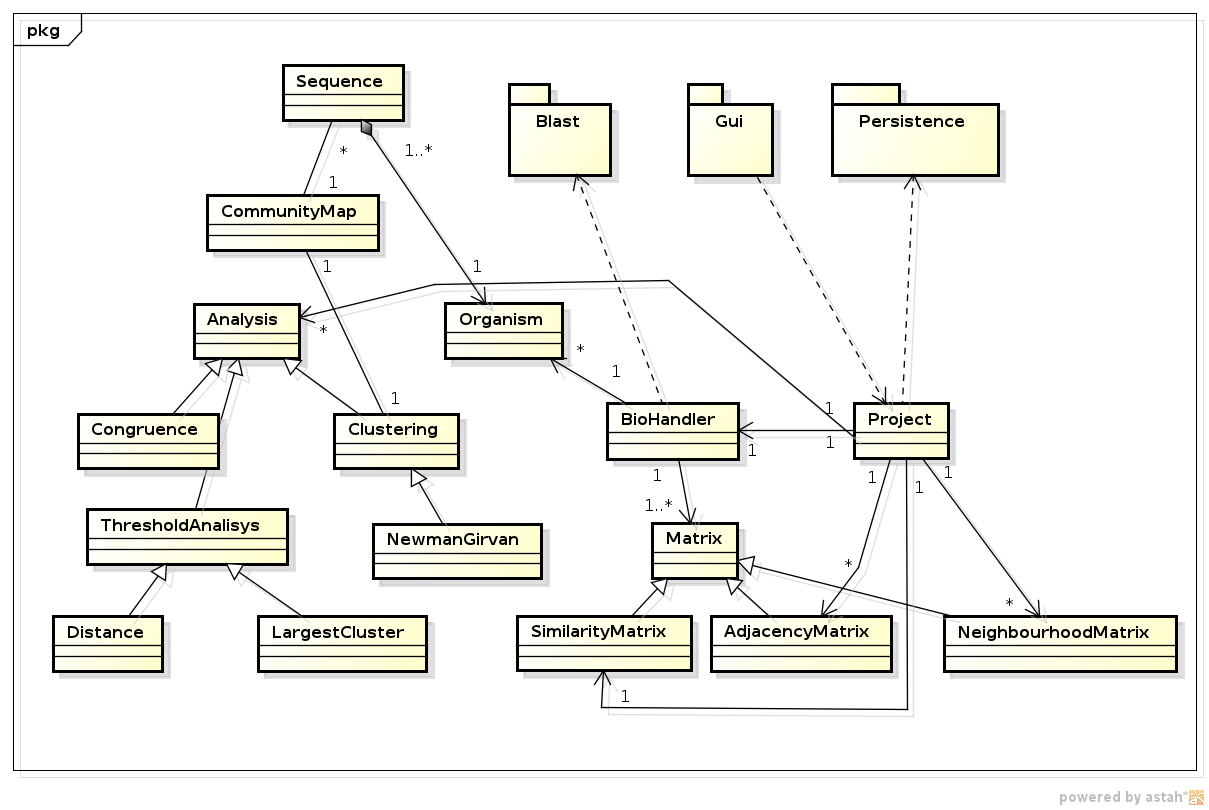
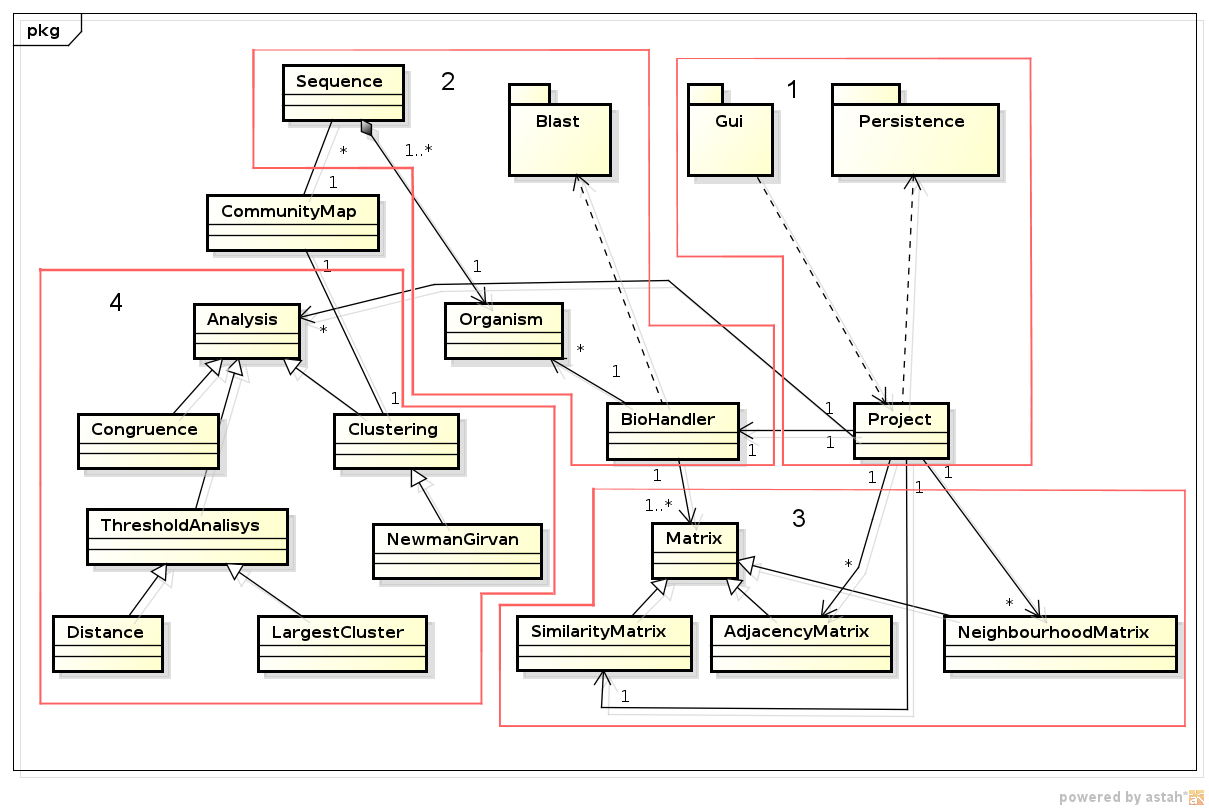
revision almost done

diff --git a/monografia/desenvolvimento.tex b/monografia/desenvolvimento.tex
@@ -100,10 +100,15 @@ Alguns programas utilizados geram as matrizes em memória e as excluem após det
 de diretórios. A possibilidade de dar ao usuário o poder de gerenciar essas matrizes e realizar operações diversas, como compará-las ou visualizar gráficos
 a partir delas ao longo de um procedimento de análise é algo importante que deve estar incluído em um ambiente integrado de análise filogenética.
 
+\newglossaryentry{matriz-cores}{name=Matriz de Cores,
+description={\hspace{2 mm}é a matriz de vizinhança representada de forma que cada número recebe uma cor diferente, variando do azul ao vermelho à medida
+em que esse número aumenta. A matriz de vizinhança pode ser rearranjada de forma a agrupar números iguais com a maior proximoidade possível da diagonal
+principal, resultando em um gráfico de matriz de cores que permite uma melhor interpretação a partir da visualização}}
+
 \begin{figure}
 \centering
 \includegraphics[scale=0.53]{matriz-vizinhanca}
-\caption{Exemplo de Matriz de Vizinhança no formato de Matriz de Cores.}
+\caption{Exemplo de Matriz de Vizinhança no formato de \gls{matriz-cores}.}
 \label{fig:matriz-vizinhanca}
 \end{figure}
 
@@ -172,21 +177,43 @@ o processo, seria mais interessante que o seu gerenciamento fosse realizado por 
 mantivesse disponíveis as informações por meio de uma camada de persistência, deixando a questão da organização dos dados transparente para o
 pesquisador.
 
-\section{A Proposta} \label{sec:proposta}
+\chapter{Modelagem do AIAF - Ambiente Integrado de apoio à Análise Filogenética através de Redes Complexas}
+\label{cap:navi}
 
 Da forma como está estruturado atualmente, o processo de análise filogenética através de redes complexas pode ser resumido como uma série de execuções
 de programas independentes entre si que recebem arquivos
 de entrada em determinados formatos, realizam seu
-processamento e geram outros arquivos de saída. Os requisitos mais importantes, portanto, são a eliminação da necessidade de organização de arquivos
+processamento e geram outros arquivos de saída. O desenvolvimento de um ambiente integrado que busque facilitar o controle de execução do processo
+torna-se importante nesse contexto. Nas seções a seguir são detalhadas a metodologia de desenvolvimento adotada e
+os artefatos de modelagem gerados.
+
+\sigla{AIAF}{Ambiente Integrado de apoio à Análise Filogenética através de Redes Complexas}
+
+\section{Metodologia de Desenvolvimento}
+
+Para satisfazer a todos os requisitos e possuir as características citadas acima, este trabalho seguiu uma metodologia tradicional de projetos
+de Engenharia de Software \cite{softeng2005} e foi adotado o modelo de desenvolvimento em espiral, onde há ciclos de planejamento de requisitos,
+com concepção de requisitos, criação
+de um protótipo, verificação, validação e novo planejamento de requisitos, continuando o ciclo \cite{boehm1986}. Neste trabalho apenas uma
+parte da espiral foi percorrida.
+
+\section{Levantamento de Requisitos}
+
+A partir do que foi descrito no Capítulo \ref{cap:analisefilo}, os requisitos mais importantes são a eliminação da necessidade de organização de arquivos
 intermediários pelos usuários e a conversão de formatos entre as execuções. Para agilizar a execução, é importante também a geração de gráficos em
-determinadas etapas. A tabela \ref{tab:requisitos} mostra de forma consolidada os requisitos levantados e que devem ser satisfeitos no processo de
+determinadas etapas. A tabela \ref{tab:requisitos} mostra de forma consolidada os requisitos funcionais levantados e que devem ser satisfeitos no processo de
 modelagem e construção de um AIAF -
 Ambiente Integrado de apoio à Análise Filogenética
 Através de Redes Complexas.
 
+\newglossaryentry{congruencia}{name=Congruência,
+description={\hspace{2 mm}trata da comparação entre duas redes de sequências proteicas, que é feita após a definição de módulos/comunidades de cada uma das
+redes. Nela analisa-se a porcentagem de sequências proteicas que pertencendo a uma determinada comunidade da primeira rede, também estão presentes na
+comunidade correspondente na segunda rede}}
+
 \begin{table}
 \centering
-\caption{Tabela de requisitos do AIAF} % igual ao ambiente Figura
+\caption{Tabela de requisitos funcionais do AIAF} % igual ao ambiente Figura
 \begin{tabular}{p{5cm}p{10cm}} % com este comando dizemos quantas colunas terá nossa tabela e a posição do texto dentro de cada coluna. Aqui temos três colunas (pois são três "c" dentre {}) e o texto estará centralizado em todas elas (indicado pelo "c", se quisermos alinhados à esquerda "l" ou direita "r"
 \hline 
 %Requisito & Pontos & Classificação \\
@@ -211,7 +238,7 @@ Execução da clusterização & O sistema deve fornecer opções de métodos de 
 o gráfico de seu resultado quando requisitado \\ \hline
 Visualização do gráfico completo da rede & O sistema deve permitir a visualização do gráfico completo da rede, após a escolha das comunidades,
 recuperando as informações salvas durante o processo de salvamento das sequências e organismos \\ \hline
-Congruência & O sistema deve permitir a comparação do resultado do método com o resultado de outros métodos de análise filogenética, além da comparação
+\gls{congruencia} & O sistema deve permitir a comparação do resultado do método com o resultado de outros métodos de análise filogenética, além da comparação
 com o resultado pelo próprio método com outro conjunto de dados \\ \hline
 Exportação de dados & O sistema deve permitir a exportação de dados necessários à geração de gráficos para o uso pelos usuários de ferramentas
 profissionais de plotagem \\ \hline
@@ -219,17 +246,9 @@ profissionais de plotagem \\ \hline
 \label{tab:requisitos}
 \end{table} 
 
-A partir desses requisitos gerais, apresentamos no próximo Capítulo a proposta de modelagem que pretende atendê-los.
-
-
-\chapter{Modelagem do AIAF - Ambiente Integrado de apoio à Análise Filogenética através de Redes Complexas}
-\label{cap:navi}
-
-\sigla{AIAF}{Ambiente Integrado de apoio à Análise Filogenética através de Redes Complexas}
-
-A partir dos requisitos identificados no Capítulo anterior, podemos propor um ambiente integrado para gerenciar o método de Análise Filogenética por
-Redes Complexas descrito anteriormente. Para garantir o controle das etapas do processo e ao mesmo tempo permitir uma fácil utilização e evitar problemas
-com padrões e arquivos de conFiguração, o sistema precisa seguir três importantes pilares:
+A partir dos requisitos identificados na Tabela \ref{tab:requisitos}, podemos propor um ambiente integrado para gerenciar o método de Análise Filogenética por
+Redes Complexas descrito anteriormente. Para garantir o controle das etapas do processo e ao mesmo tempo evitar problemas
+com padrões e arquivos de configuração, o sistema precisa seguir três importantes requisitos não-funcionais:
 
 \begin{itemize}
  \item{\textbf{Usabilidade:} é um fator importante por tornar o método passível de utilização por pessoas com pouco ou quase nenhum conhecimento de
@@ -244,12 +263,6 @@ necessárias para a retomada de execuções.}
 preocupar com detalhes de mais baixo nível de execução, como os locais em que os arquivos estão dispostos e situações relacionadas à conversão de
 formatos e adaptações diversas de dados.}
 \end{itemize}
-
-Para satisfazer a todos os requisitos e possuir as características citadas acima, este trabalho seguiu uma metodologia tradicional de projetos
-de Engenharia de Software \cite{softeng2005} e foi adotado o modelo de desenvolvimento em espiral, onde há ciclos de planejamento de requisitos,
-com concepção de requisitos, criação
-de um protótipo, verificação, validação e novo planejamento de requisitos, continuando o ciclo \cite{boehm1986}. Neste trabalho apenas uma
-parte da espiral foi percorrida.
 
 No levantamento de requisitos, foram determinados os objetivos e alternativas e definido o escopo do sistema baseado nos objetivos do projeto,
 dispostos na Seção \ref{sec:objetivos}. Em seguida foi realizada a modelagem, com os diagramas de casos de uso, classes e sequência.
@@ -322,7 +335,7 @@ de um diagrama de classes, mostrado na próxima Seção.
 \section{Modelagem dos Dados} \label{sec:organizacao}
 
 A organização das informações do sistema é um passo importante para que se tenha qualidade e se atenda aos requisitos propostos. Torna-se de grande
-importância,
+importância
 a criação de um diagrama de classes para definir classes e suas responsabilidades, além de seus aspectos funcionais (métodos)
 e os dados
 (atributos) em que cada uma é responsável.
@@ -338,14 +351,25 @@ foi criado um diagrama de classes, cuja versão simplificada pode ser vista na F
 \label{fig:diagrama-classes-simplificado}
 \end{figure}
 
-A classe principal do AIAF é a classe \textit{Project}. Todas as interações do usuário com a \textit{GUI} (\textit{Graphical User Interface})
+Na Figura \ref{fig:diagrama-classes-simplificado} as classes estão agrupadas para facilitar o entendimento. A numeração adotada foi intencional pelo mesmo
+motivo. As três classes mais importantes estão no grupo 1. Elas são responsáveis por garantir usabilidade, gerenciamento de informação e transparência. No
+grupo 2 estão as classes que tratarão da parte inicial do método, onde há a filtragem dos dados provenientes do GenBank e o salvamento de sequências e
+organismos, além da execução da ferramenta BLAST para a comparação de sequências e geração da matriz de similaridades. Os grupos 3 e 4 demonstram de forma
+clara o poder de extensibilidade do sistema, onde de pode incluir novas matrizes ou novas análises de limiares ou de clusterização, por exemplo, através
+da simples criação de uma classe e utilização de herança. \textit{BLAST} foi definido como pacote por se tratar de uma ferramenta externa.
+\textit{GUI} (\textit{Graphical User Interface}) e \textit{Persistence}
+foram definidos da mesma maneira pois seu detalhamento é irrelevante no contexto da análise da modelagem de classes, mas fazem parte do núcleo do AIAF.
+A seguir teremos um detalhamento melhor sobre as classes.
+
+A classe principal do AIAF é a classe \textit{Project}. Todas as interações do usuário com a \textit{GUI} 
 passam por ela, que controlará operações com
 matrizes, análises, tratamento das informações biológicas e dos dados de entrada. Através dela é possível criar novo projeto, abrir projeto existente e
 salvar projeto corrente (caso de uso 1). Um projeto para o sistema reúne todos os dados de informações de execução de um conjunto de dados, desde
 a escolha de sequências, geração de matriz de similaridade, matrizes de adjacência e vizinhança, gráficos, definição de comunidades, clusterização,
 congruência. A classe \textit{Project} também lida com o pacote \textit{Persistence}, que mapeia as classes do sistema em uma camada de persistência, via
 armazenamento em disco. Sua função inclui serializar e desserializar os objetos do sistema, além de prover
-a organização dos dados do projeto, atuando de forma transparente ao usuário. Como resultado, o usuário obtém um arquivo que representa o mapeamento
+a organização dos dados do projeto, atuando de forma transparente ao usuário. Os dados de vários objetos são salvos, embora todo o controle para persisti-los
+tenha que passar pela classe \textit{Project}. Como resultado, o usuário obtém um arquivo que representa o mapeamento
 feito pela camada de persistência em um sistema de arquivos comprimido e de extensão própria (.aiaf).
 
 \sigla{GUI}{\textit{Graphical User Interface}}
@@ -481,9 +505,25 @@ processo. Como a execução dos diversos programas era feita em Linux e o progra
 situações era necessário reiniciar a máquina ou mudar de máquina para que se pudesser plotar os gráficos. Com o Matplotlib \cite{matplotlib}, biblioteca de 
 plotagem de gráficos para Python, esse trabalho passa a ser desnecessário.
 
+\begin{figure}
+\centering
+\includegraphics[scale=0.43]{ferramentas-etapa-processo}
+\caption{Ferramentas utilizadas em cada etapa do processo.}
+\label{fig:ferramentas-etapa-processo}
+\end{figure}
+
 O \textit{BioPython} inclui o Blast2 e seus \textit{bindings} para Python. Como módulos externos, se fizeram necessários ainda o Madchar (geração de matrizes),
-o RedeCrítica (análise de limiares) e o Dendo (clusterização), os três desenvolvidos pelo FESC. Por serem codificados em Fortran foi necessário o pacote
-Gfortran \cite{gfortran}.
+o RedeCrítica (análise de limiares) e o Dendo (clusterização), os três desenvolvidos pelo FESC.
+Por serem codificados em Fortran foi necessário o pacote
+Gfortran \cite{gfortran}. A Figura \ref{fig:ferramentas-etapa-processo} e a Figura \ref{fig:ferramentas-camadas}
+ilustram as ferramentas utilizadas em cada etapa do processo e em relação às camadas do AIAF, respectivamente.
+
+\begin{figure}
+\centering
+\includegraphics[scale=0.43]{ferramentas-camadas}
+\caption{Ferramentas utilizadas na interface gráfica, camada de controle e gerenciamento, persistência e módulos externos.}
+\label{fig:ferramentas-camadas}
+\end{figure}
 
 \section{Apresentação do Protótipo} \label{sec:discussao}
 

diff --git a/monografia/introducao.tex b/monografia/introducao.tex
@@ -19,9 +19,13 @@ Física e a Matemática que, assim como a Biologia, podem atingir resultados rap
 em computação aplicada.
 
 \newglossaryentry{fisica-estatistica}{name=Física Estatística,
-description={\hspace{2 mm}é o ramo da Física que usa métodos da teoria das probabilidades e estatística e, particularmente, as ferramentas matemáticas para
-lidar com grandes populações e aproximações, na solução de problemas físicos. Seu principal objetivo é esclarecer as propriedades da matéria sob conjuntos,
-em termos de leis físicas que regem o movimento atômico}}
+description={\hspace{2 mm}é o ramo da Física que usa métodos da teoria das probabilidades e estatística
+ferramentas matemáticas e computacionais para lidar com sistemas físicos formados por um número muito
+grande de elementos. Seu principal objetivo é esclarecer as
+propriedades globais, com base no comportamento médio de seus constituintes. Nos últimos anos técnicas
+da  Física Estatística têm sido utilizadas para estudar problemas de outras áreas de conhecimento (Biologia, Economia, etc)
+que lidam com sistemas formados por um número muito
+grande de elementos}}
 
 \newglossaryentry{sistemas-complexos}{name=Sistemas Complexos,
 description={\hspace{2 mm}são sistemas onde suas propriedades não são uma consequência natural de seus elementos constituintes vistos isoladamente. As
